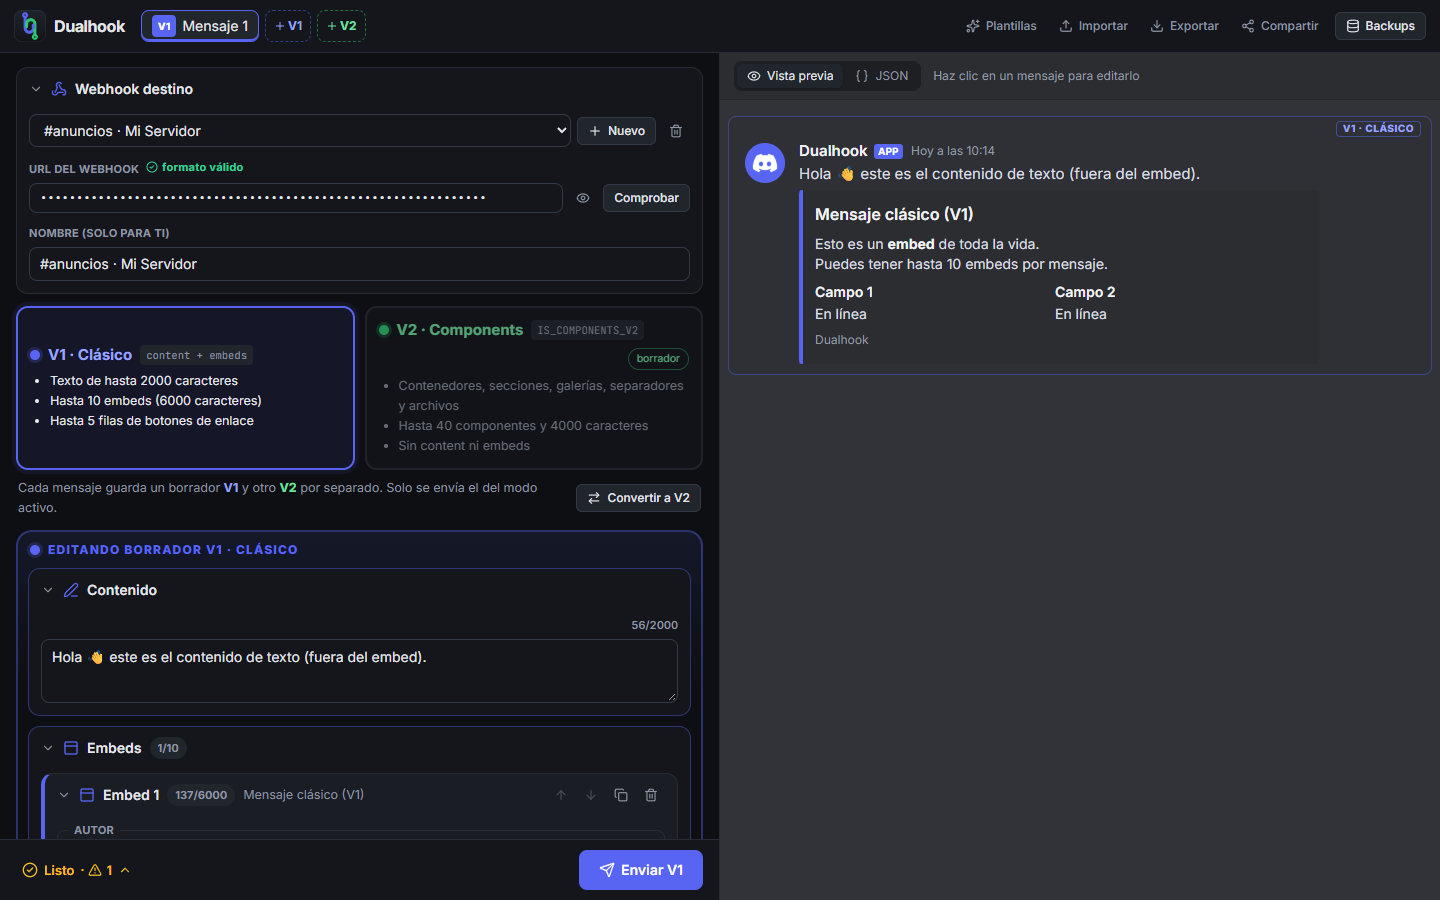
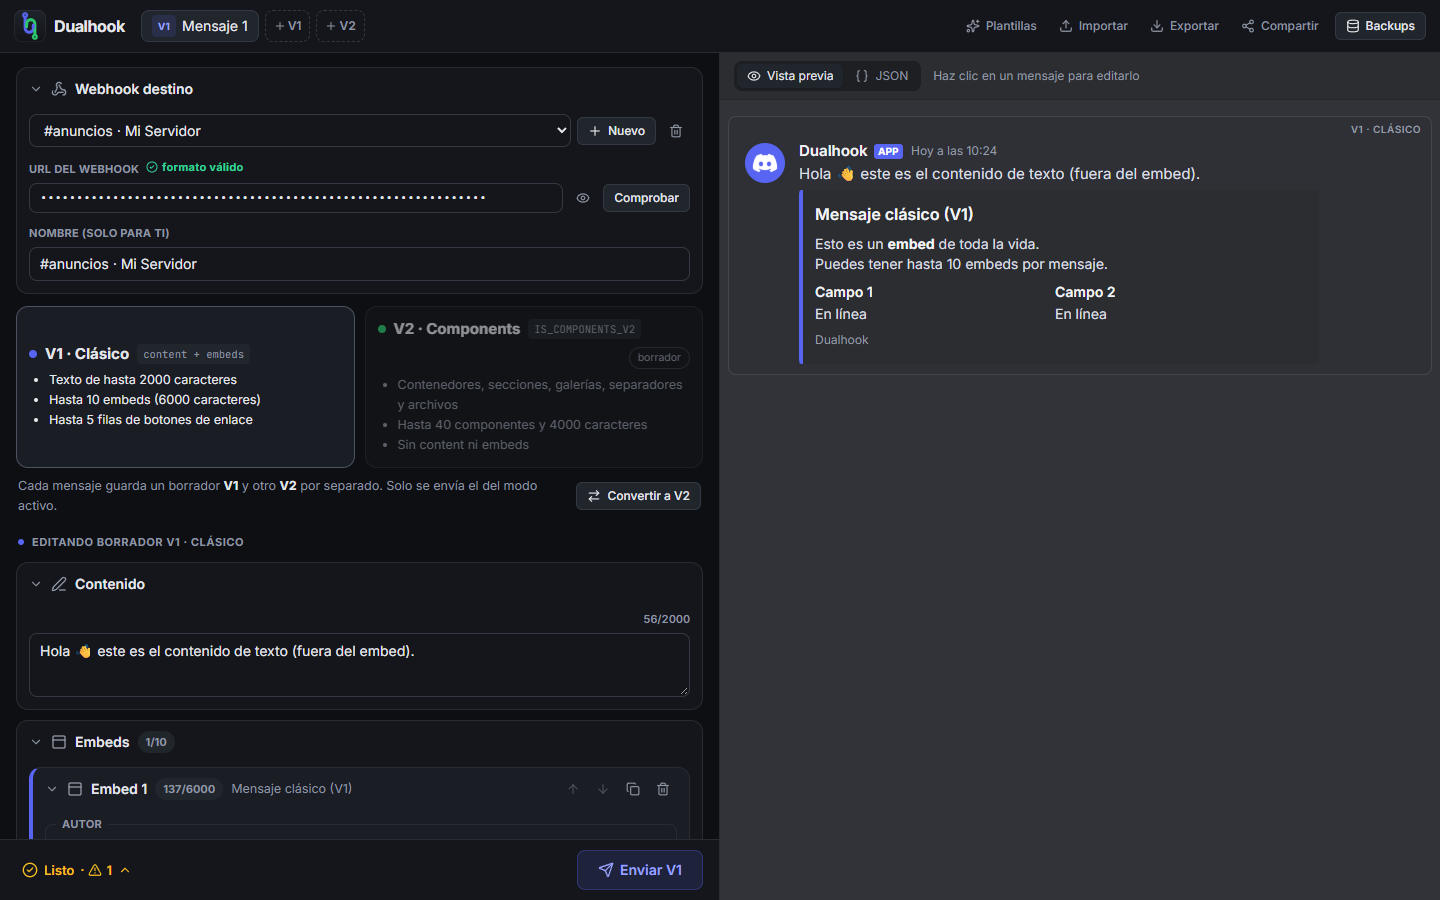
Interfaz más sobria: menos azul y verde (1.0.1)
El color de cada modo queda solo en las etiquetas V1/V2, el punto de la
tarjeta de modo y el botón de enviar (como tinte). Bordes, iconos, botones,
foco y tipos de componente V2 pasan a gris neutro. Capturas regeneradas.

diff --git a/src/components/editor/ModeSwitch.tsx b/src/components/editor/ModeSwitch.tsx
@@ -19,8 +19,8 @@ const INFO: Record<Mode, { title: string; flag: string; points: string[] }> = {
 };
 
 const TONE: Record<Mode, { on: string; text: string; dot: string; pill: string }> = {
-  v1: { on: 'border-v1 bg-v1/10 shadow-[0_0_0_4px] shadow-v1/10', text: 'text-v1-soft', dot: 'bg-v1 shadow-[0_0_0_3px] shadow-v1/20', pill: 'border-v1/50 text-v1-soft' },
-  v2: { on: 'border-v2 bg-v2/10 shadow-[0_0_0_4px] shadow-v2/10', text: 'text-v2-soft', dot: 'bg-v2 shadow-[0_0_0_3px] shadow-v2/20', pill: 'border-v2/50 text-v2-soft' },
+  v1: { on: 'border-[#4b5260] bg-panel-2', text: 'text-fg', dot: 'bg-v1', pill: 'border-line-2 text-muted' },
+  v2: { on: 'border-[#4b5260] bg-panel-2', text: 'text-fg', dot: 'bg-v2', pill: 'border-line-2 text-muted' },
 };
 
 function ModeCard({ m, mode }: { m: Message; mode: Mode }) {
@@ -32,10 +32,10 @@ function ModeCard({ m, mode }: { m: Message; mode: Mode }) {
     <button
       type="button"
       onClick={() => !on && update((d) => void (d.mode = mode))}
-      className={cn('rounded-xl border-2 bg-panel p-3 text-left transition', on ? tone.on : 'border-line opacity-70 hover:border-line-2 hover:opacity-100')}
+      className={cn('rounded-xl border bg-panel p-3 text-left transition', on ? tone.on : 'border-line opacity-60 hover:border-line-2 hover:opacity-100')}
     >
       <div className="flex flex-wrap items-center gap-2">
-        <span className={cn('size-2.5 rounded-full', tone.dot)} />
+        <span className={cn('size-2 rounded-full', tone.dot)} />
         <b className={cn('text-[15px]', tone.text)}>{info.title}</b>
         <code className="rounded bg-panel-3 px-1.5 font-mono text-[10.5px] text-muted">{info.flag}</code>
         {!on && hasContent(m, mode) && <span className={cn('ml-auto rounded-full border px-2 text-[10.5px]', tone.pill)}>borrador</span>}
@@ -60,7 +60,7 @@ export function ModeSwitch({ message }: { message: Message }) {
       </div>
       <div className="flex items-center gap-3 px-0.5 text-[12.5px] text-muted">
         <span className="flex-1">
-          Cada mensaje guarda un borrador <b className="text-v1-soft">V1</b> y otro <b className="text-v2-soft">V2</b> por separado. Solo se envía el del modo activo.
+          Cada mensaje guarda un borrador <b className="text-fg">V1</b> y otro <b className="text-fg">V2</b> por separado. Solo se envía el del modo activo.
         </span>
         <Button size="sm" disabled={!hasContent(message, message.mode)} onClick={convertActive}>
           <ArrowRightLeft /> Convertir a {other.toUpperCase()}

diff --git a/src/components/editor/v1/V1Editor.tsx b/src/components/editor/v1/V1Editor.tsx
@@ -17,7 +17,7 @@ export function V1Editor({ message }: { message: Message }) {
   const attachList = `att-${message.id}`;
   return (
     <>
-      <Card id={`v1-content-${message.id}`} className="border-mode/40" icon={<PenLine />} title="Contenido">
+      <Card id={`v1-content-${message.id}`} icon={<PenLine />} title="Contenido">
         <TextField
           multiline
           rows={4}
@@ -28,7 +28,7 @@ export function V1Editor({ message }: { message: Message }) {
         />
       </Card>
 
-      <Card id={`v1-embeds-${message.id}`} className="border-mode/40" icon={<PanelTop />} title="Embeds" tag={<Tag>{d.embeds.length}/{L.embeds}</Tag>}>
+      <Card id={`v1-embeds-${message.id}`} icon={<PanelTop />} title="Embeds" tag={<Tag>{d.embeds.length}/{L.embeds}</Tag>}>
         {d.embeds.length ? (
           d.embeds.map((e, i) => <EmbedEditor key={e._id} embeds={d.embeds} index={i} attachList={attachList} onChange={(embeds) => update((m) => void (m.v1.embeds = embeds))} />)
         ) : (
@@ -37,7 +37,7 @@ export function V1Editor({ message }: { message: Message }) {
         <AddButtons options={[{ label: 'Embed', disabled: d.embeds.length >= L.embeds, onClick: () => update((m) => void m.v1.embeds.push(make.embed())) }]} />
       </Card>
 
-      <Card id={`v1-rows-${message.id}`} className="border-mode/40" icon={<RectangleHorizontal />} title="Botones" tag={<Tag>{d.components.length}/{L.rows} filas</Tag>}>
+      <Card id={`v1-rows-${message.id}`} icon={<RectangleHorizontal />} title="Botones" tag={<Tag>{d.components.length}/{L.rows} filas</Tag>}>
         <p className="text-xs text-muted">En webhooks normales solo se admiten botones de enlace. Se envía con <code>?with_components=true</code> automáticamente.</p>
         {d.components.map((r, i) => (
           <ActionRowEditor

diff --git a/src/components/ui/button.tsx b/src/components/ui/button.tsx
@@ -3,17 +3,17 @@ import { forwardRef, type ButtonHTMLAttributes } from 'react';
 import { cn } from '@/lib/utils';
 
 const buttonVariants = cva(
-  'inline-flex shrink-0 items-center justify-center gap-1.5 whitespace-nowrap rounded-lg text-sm font-medium transition-colors focus-visible:outline-none focus-visible:ring-2 focus-visible:ring-mode/40 disabled:pointer-events-none disabled:opacity-40 [&_svg]:size-4 [&_svg]:shrink-0',
+  'inline-flex shrink-0 items-center justify-center gap-1.5 whitespace-nowrap rounded-lg text-sm font-medium transition-colors focus-visible:outline-none focus-visible:ring-2 focus-visible:ring-white/20 disabled:pointer-events-none disabled:opacity-40 [&_svg]:size-4 [&_svg]:shrink-0',
   {
     variants: {
       variant: {
         default: 'border border-line-2 bg-panel-3 text-fg hover:border-[#46505e] hover:bg-[#2b3039]',
-        primary: 'bg-mode font-semibold text-white shadow-sm hover:brightness-110',
-        v1: 'bg-v1 font-semibold text-white hover:brightness-110',
-        v2: 'bg-v2 font-semibold text-[#052513] hover:brightness-110',
+        primary: 'bg-fg font-semibold text-bg hover:bg-white',
+        v1: 'border border-v1/30 bg-v1/15 font-semibold text-v1-soft hover:bg-v1/25',
+        v2: 'border border-v2/30 bg-v2/15 font-semibold text-v2-soft hover:bg-v2/25',
         ghost: 'text-muted hover:bg-panel-3 hover:text-fg',
         danger: 'border border-red-500/40 bg-red-500/10 text-red-300 hover:bg-red-500/20',
-        dashed: 'border border-dashed border-mode/50 bg-mode/10 text-fg hover:border-solid hover:border-mode',
+        dashed: 'border border-dashed border-line-2 text-muted hover:border-[#4b5260] hover:text-fg',
       },
       size: {
         default: 'h-9 px-3',

diff --git a/src/components/layout/TopBar.tsx b/src/components/layout/TopBar.tsx
@@ -26,7 +26,7 @@ function MessageTabs() {
             className={cn(
               'group flex shrink-0 items-center gap-1.5 rounded-lg border border-line bg-panel-2 px-2.5 py-1 text-muted transition hover:text-fg',
               on && 'bg-panel-3 text-fg',
-              on && (isV1 ? 'border-v1 shadow-[inset_0_-2px] shadow-v1' : 'border-v2 shadow-[inset_0_-2px] shadow-v2'),
+              on && 'border-line-2',
             )}
           >
             <ModePill mode={m.mode} className="text-[10px]" />
@@ -44,10 +44,10 @@ function MessageTabs() {
           </button>
         );
       })}
-      <button type="button" disabled={full} onClick={() => addMessage('v1')} className="flex shrink-0 items-center gap-0.5 rounded-lg border border-dashed border-v1/50 px-2 text-xs font-bold text-v1-soft hover:bg-v1/10 disabled:opacity-40">
+      <button type="button" disabled={full} onClick={() => addMessage('v1')} className="flex shrink-0 items-center gap-0.5 rounded-lg border border-dashed border-line-2 px-2 text-xs font-semibold text-muted hover:text-fg disabled:opacity-40">
         <Plus className="size-3" /> V1
       </button>
-      <button type="button" disabled={full} onClick={() => addMessage('v2')} className="flex shrink-0 items-center gap-0.5 rounded-lg border border-dashed border-v2/50 px-2 text-xs font-bold text-v2-soft hover:bg-v2/10 disabled:opacity-40">
+      <button type="button" disabled={full} onClick={() => addMessage('v2')} className="flex shrink-0 items-center gap-0.5 rounded-lg border border-dashed border-line-2 px-2 text-xs font-semibold text-muted hover:text-fg disabled:opacity-40">
         <Plus className="size-3" /> V2
       </button>
     </nav>

diff --git a/src/components/ui/card.tsx b/src/components/ui/card.tsx
@@ -31,7 +31,7 @@ export function Card({ id, title, icon, tag, summary, actions, children, classNa
         }}
       >
         {id && <ChevronDown className={cn('size-3.5 shrink-0 text-muted transition-transform', collapsed && '-rotate-90')} />}
-        {icon && <span className="flex shrink-0 text-mode [&_svg]:size-4">{icon}</span>}
+        {icon && <span className="flex shrink-0 text-muted [&_svg]:size-4">{icon}</span>}
         <span className="whitespace-nowrap font-semibold">{title}</span>
         {tag}
         {summary && <span className="min-w-0 truncate text-[12.5px] text-muted">{summary}</span>}
@@ -49,7 +49,7 @@ export function Tag({ children, className }: { children: ReactNode; className?: 
 
 export function ModePill({ mode, children, className }: { mode: 'v1' | 'v2'; children?: ReactNode; className?: string }) {
   return (
-    <span className={cn('inline-block rounded px-1.5 py-px text-[10.5px] font-extrabold tracking-wide', mode === 'v1' ? 'bg-v1 text-white' : 'bg-v2 text-[#062b16]', className)}>
+    <span className={cn('inline-block rounded px-1.5 py-px text-[10.5px] font-bold tracking-wide', mode === 'v1' ? 'bg-v1/15 text-v1-soft' : 'bg-v2/15 text-v2-soft', className)}>
       {children ?? mode.toUpperCase()}
     </span>
   );

diff --git a/src/components/editor/v2/V2Editor.tsx b/src/components/editor/v2/V2Editor.tsx
@@ -11,7 +11,7 @@ import { ComponentEditor, rootAddOptions } from './ComponentEditor';
 
 function Meter({ label, value, max }: { label: string; value: number; max: number }) {
   const pct = Math.min(100, (value / max) * 100);
-  const tone = value > max ? 'bg-red-500' : value > max * 0.9 ? 'bg-amber-400' : 'bg-mode';
+  const tone = value > max ? 'bg-red-500' : value > max * 0.9 ? 'bg-amber-400' : 'bg-muted/50';
   return (
     <div className="relative overflow-hidden rounded-lg border border-line bg-panel px-3 pb-2.5 pt-1.5 text-[12.5px] text-muted">
       <div className="flex justify-between">
@@ -36,7 +36,7 @@ export function V2Editor({ message }: { message: Message }) {
         <Meter label="Componentes" value={st.count} max={LIMITS.v2.components} />
         <Meter label="Caracteres de texto" value={st.chars} max={LIMITS.v2.textTotal} />
       </div>
-      <Card className="border-mode/40" icon={<Boxes />} title="Componentes" tag={<Tag>{comps.length} en raíz</Tag>}>
+      <Card icon={<Boxes />} title="Componentes" tag={<Tag>{comps.length} en raíz</Tag>}>
         {comps.length ? (
           <div className="flex flex-col gap-2">
             {comps.map((c, i) => (

diff --git a/src/components/dialogs/BackupsSheet.tsx b/src/components/dialogs/BackupsSheet.tsx
@@ -136,7 +136,7 @@ export function BackupsSheet({ open, onOpenChange, onExport }: { open: boolean; 
       onOpenChange={onOpenChange}
       title={
         <>
-          <Database className="size-5 text-mode" /> Backups
+          <Database className="size-5 text-muted" /> Backups
         </>
       }
       headerExtra={<span className="text-xs text-muted">{list.length} guardados · {fmtSize(size)}</span>}
@@ -179,9 +179,9 @@ export function BackupsSheet({ open, onOpenChange, onExport }: { open: boolean; 
           {(
             [
               ['all', 'Cualquier modo', 'bg-panel-3 text-fg'],
-              ['v1', 'Solo V1', 'bg-v1 text-white'],
-              ['v2', 'Solo V2', 'bg-v2 text-[#052513]'],
-              ['mixed', 'Mixto', 'bg-gradient-to-r from-v1 to-v2 text-white'],
+              ['v1', 'Solo V1', 'bg-panel-3 text-fg'],
+              ['v2', 'Solo V2', 'bg-panel-3 text-fg'],
+              ['mixed', 'Mixto', 'bg-panel-3 text-fg'],
             ] as const
           ).map(([v, l, on]) => (
             <button key={v} type="button" onClick={() => setMode(v)} className={cn('rounded-md px-2.5 py-1 text-xs text-muted hover:text-fg', mode === v && on)}>

diff --git a/src/components/editor/EditorPanel.tsx b/src/components/editor/EditorPanel.tsx
@@ -23,9 +23,9 @@ export function EditorPanel() {
       <TargetCard />
       <ModeSwitch message={m} />
 
-      <section className="relative flex flex-col gap-2.5 rounded-2xl border-2 border-mode/40 bg-gradient-to-b from-mode/10 to-transparent to-[160px] p-2.5">
-        <div className="flex items-center gap-2 px-0.5 text-xs font-extrabold uppercase tracking-widest text-mode">
-          <span className={cn('size-2.5 rounded-full bg-mode shadow-[0_0_0_3px] shadow-mode/20')} />
+      <section className="flex flex-col gap-2.5">
+        <div className="flex items-center gap-2 px-0.5 pt-1 text-[11px] font-bold uppercase tracking-wider text-muted">
+          <span className={cn('size-1.5 rounded-full', isV1 ? 'bg-v1' : 'bg-v2')} />
           {isV1 ? 'Editando borrador V1 · Clásico' : 'Editando borrador V2 · Components'}
         </div>
         {isV1 ? <V1Editor message={m} /> : <V2Editor message={m} />}

diff --git a/src/components/preview/Preview.tsx b/src/components/preview/Preview.tsx
@@ -55,14 +55,13 @@ function DiscordMessage({ m, index, active }: { m: Message; index: number; activ
       className={cn(
         'relative mb-2.5 grid cursor-pointer grid-cols-[40px_1fr] gap-x-3.5 rounded-lg border border-transparent px-4 pb-2.5 pt-6 hover:bg-dc-hover',
         active && 'bg-dc-hover',
-        active && (isV1 ? 'border-v1/40' : 'border-v2/40'),
+        active && 'border-white/10',
       )}
     >
       <span
         className={cn(
-          'absolute right-2.5 top-1 rounded border px-1.5 text-[10px] font-extrabold uppercase tracking-wider',
-          isV1 ? 'border-v1/50 text-v1-soft' : 'border-v2/50 text-v2-soft',
-          !active && 'opacity-50',
+          'absolute right-2.5 top-1.5 text-[10px] font-semibold uppercase tracking-wider text-dc-muted',
+          !active && 'opacity-60',
         )}
       >
         {isV1 ? 'V1 · Clásico' : 'V2 · Components'}

diff --git a/src/components/editor/v2/ComponentEditor.tsx b/src/components/editor/v2/ComponentEditor.tsx
@@ -123,8 +123,6 @@ export function ComponentEditor<T extends AnyComp>({ items, index, onItemsChange
     return (
       <ActionRowEditor
         row={c}
-        className="border-l-[3px]"
-        style={{ borderLeftColor: meta.color }}
         onChange={replace}
         actions={<ItemActions items={items} index={index} onChange={onItemsChange} extra={extra} />}
       />
@@ -185,9 +183,7 @@ export function ComponentEditor<T extends AnyComp>({ items, index, onItemsChange
   return (
     <Card
       id={c._id}
-      className="border-l-[3px]"
-      style={{ borderLeftColor: c.type === 17 ? c.accent_color || '#333944' : meta.color }}
-      icon={<span style={{ color: meta.color }}>{meta.icon}</span>}
+      icon={meta.icon}
       title={meta.name}
       summary={summary}
       actions={<ItemActions items={items} index={index} onChange={onItemsChange} extra={extra} />}

diff --git a/src/components/ui/fields.tsx b/src/components/ui/fields.tsx
@@ -62,7 +62,7 @@ export function TextField({ label, value, onChange, placeholder, max, multiline,
 export function CheckField({ label, checked, onChange, className }: { label: ReactNode; checked: boolean; onChange: (v: boolean) => void; className?: string }) {
   return (
     <label className={cn('inline-flex cursor-pointer select-none items-center gap-2 text-[13px]', className)}>
-      <input type="checkbox" className="size-4 accent-mode" checked={checked} onChange={(e) => onChange(e.target.checked)} />
+      <input type="checkbox" className="size-4 accent-[#8f96a3]" checked={checked} onChange={(e) => onChange(e.target.checked)} />
       <span>{label}</span>
     </label>
   );

diff --git a/src/components/dialogs/SmallDialogs.tsx b/src/components/dialogs/SmallDialogs.tsx
@@ -100,7 +100,7 @@ export function TemplatesDialog({ open, onOpenChange }: DialogProps) {
             key={t.name}
             type="button"
             onClick={async () => (await applyTemplate(t)) && onOpenChange(false)}
-            className={cn('rounded-xl border bg-panel-2 p-3 text-left transition', mode === 'v1' ? 'border-v1/40 hover:bg-v1/10' : 'border-v2/40 hover:bg-v2/10')}
+            className={cn('rounded-xl border bg-panel-2 p-3 text-left transition', 'border-line hover:border-line-2 hover:bg-panel-3')}
           >
             <div className="font-semibold">{t.name}</div>
             <div className="text-xs text-muted">{t.description}</div>
